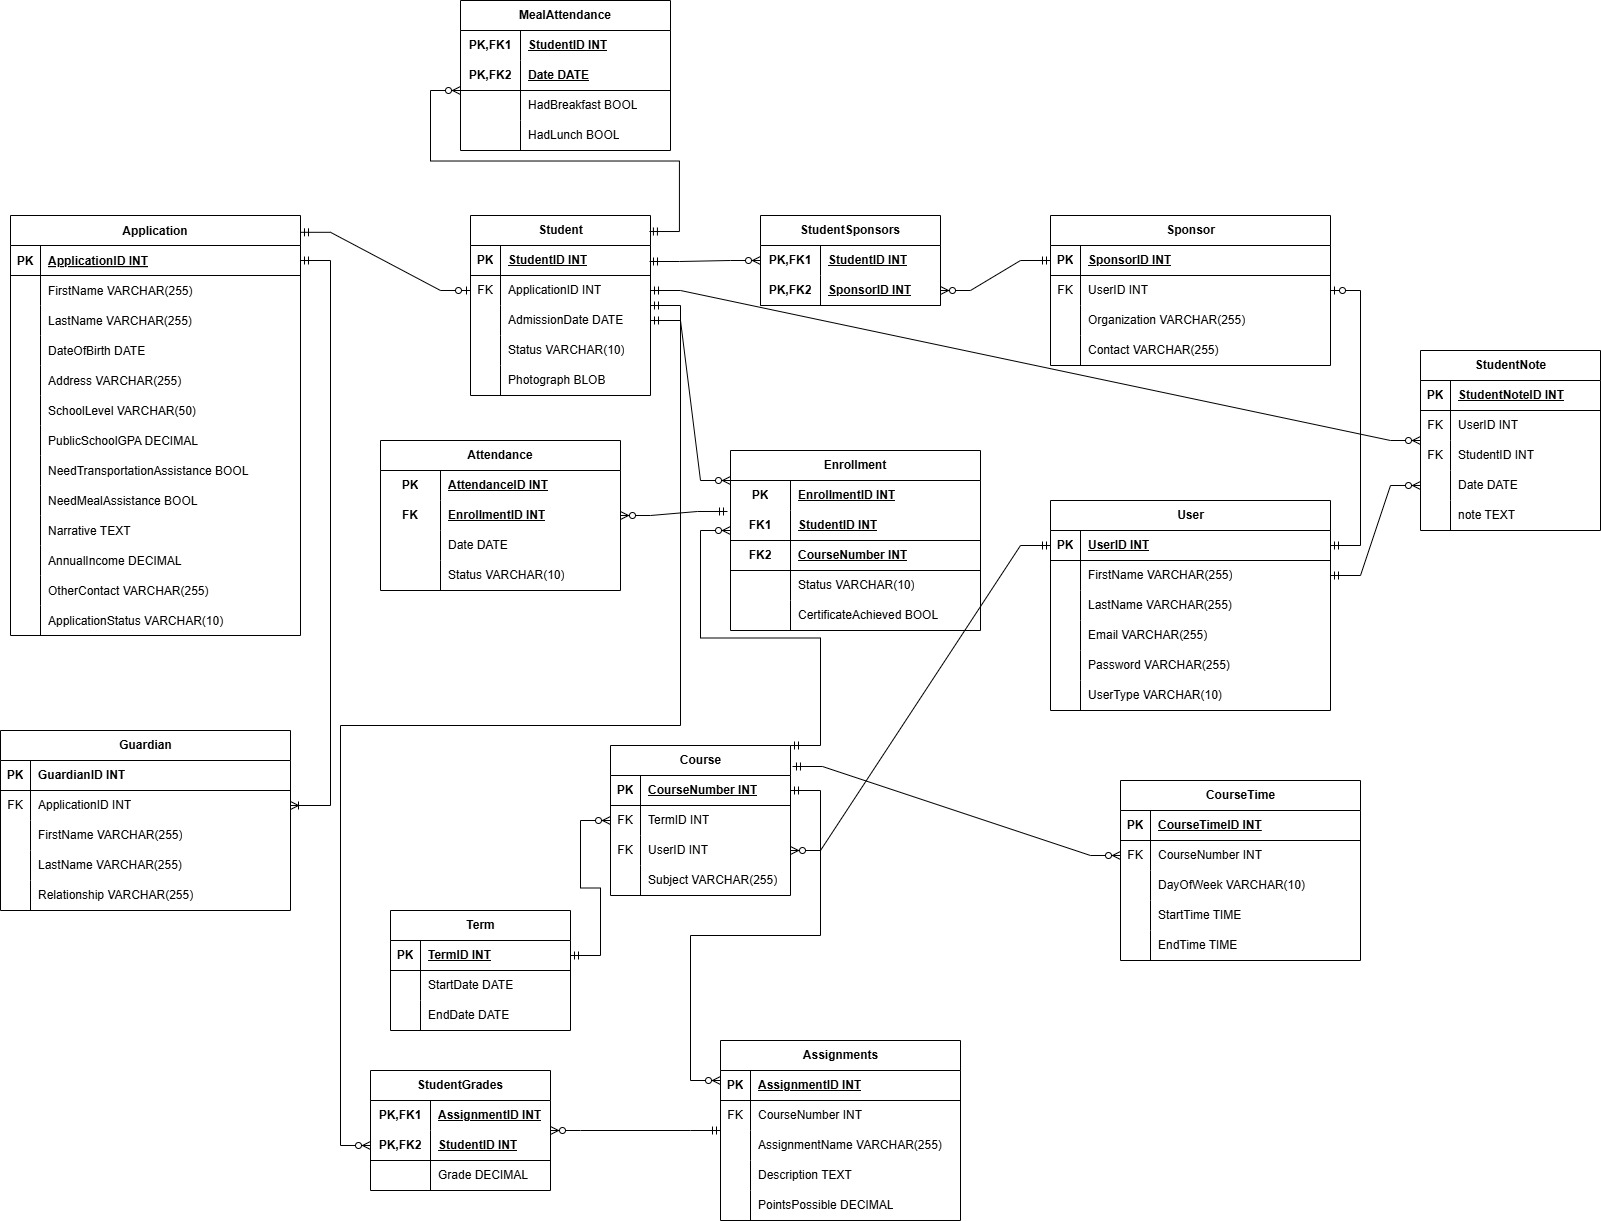
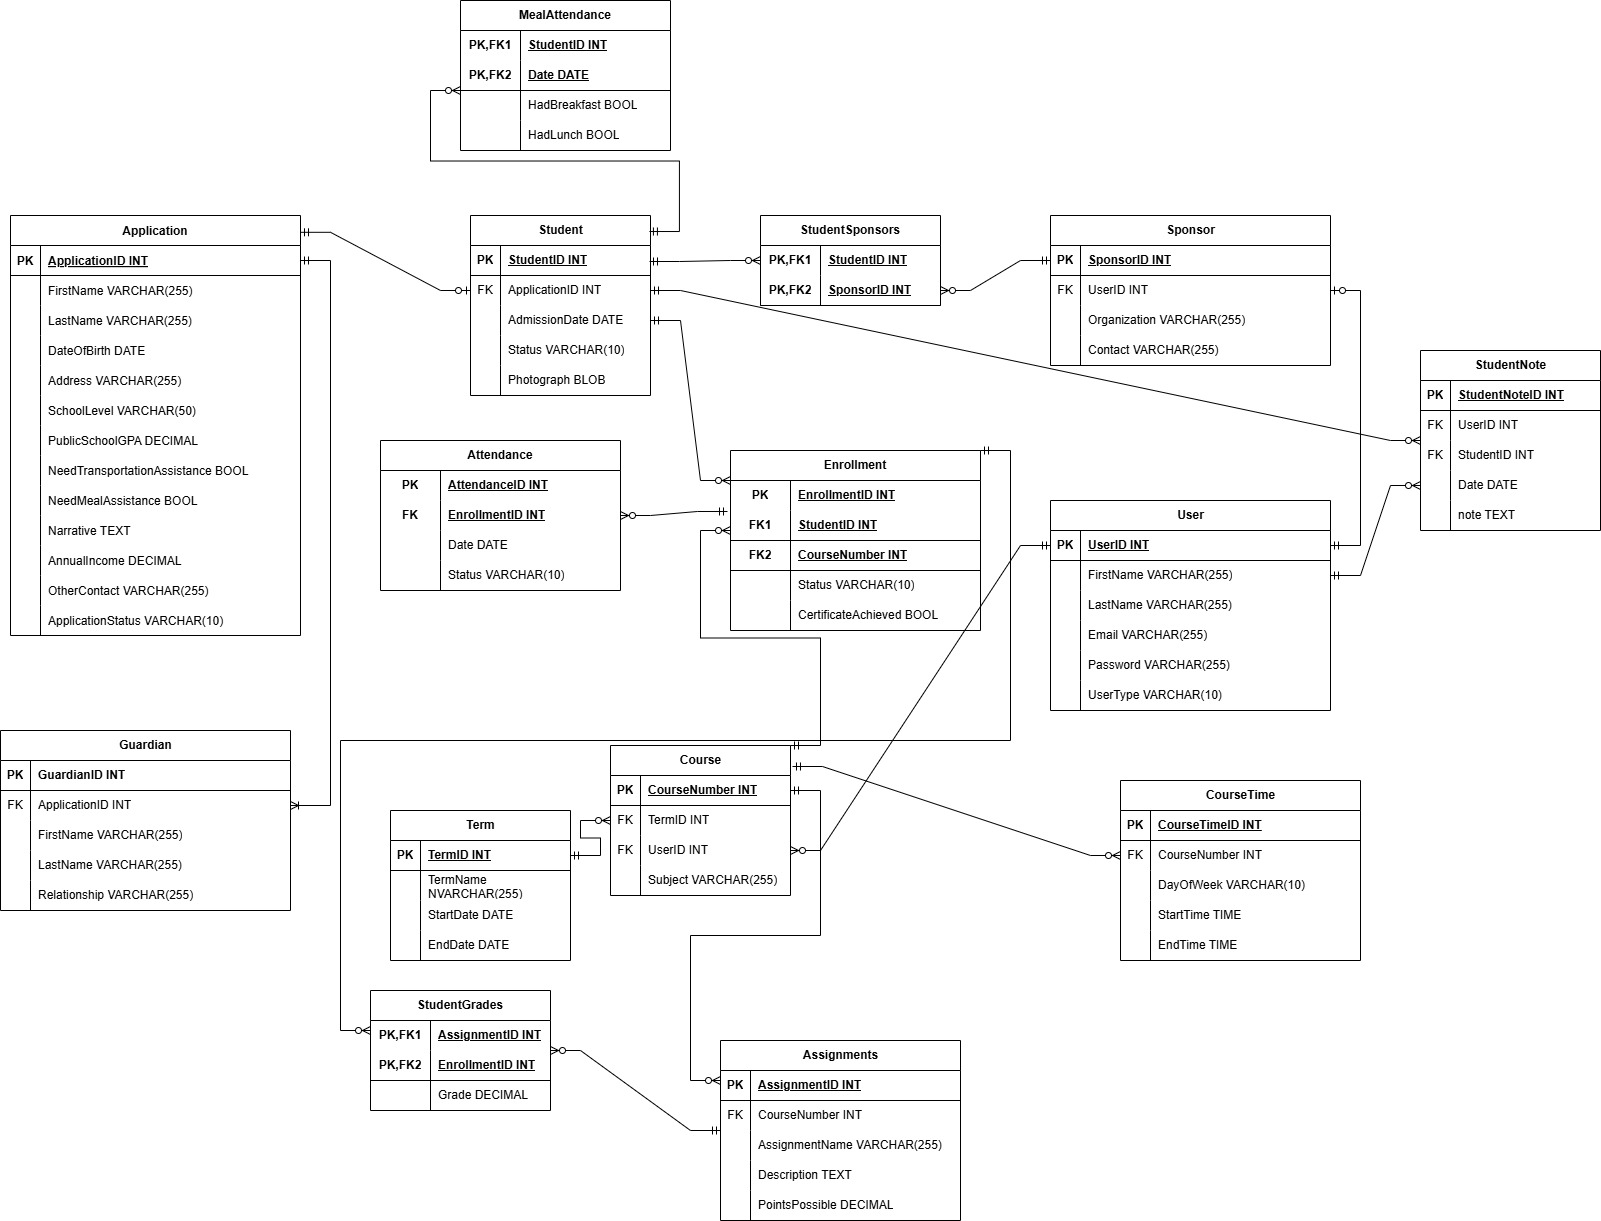
implementation of the gradebook. Some files have been affected due to creating routes and links to the gradebook.  Gradebook will display in a grid form for the instructor once they have students and assignments.  Deleting an assignment now also deletes the associated grades.

Changed region(s): [[0.2186, 0.6847, 0.3435, 0.9648], [0.3435, 0.6847, 0.3748, 0.7158]]

diff --git a/lib/database.js b/lib/database.js
@@ -214,22 +214,6 @@ function createTables(){
     }
   });
 
-  sql = "CREATE TABLE IF NOT EXISTS StudentGrades (\n"+
-  "AssignmentID INT NOT NULL,\n"+
-  "StudentID INT NOT NULL,\n"+
-  "Grade DECIMAL,\n"+
-  "PRIMARY KEY (AssignmentID, StudentID)\n"+
-  ");"
-
-  con.execute(sql, function(err, results, fields) {
-    if (err) {
-      console.log(err.message);
-      throw err;
-    } else {
-      console.log("database.js: StudentGrades table created if it didn't exist");
-    }
-  });
-
   sql = "CREATE TABLE IF NOT EXISTS CourseTIme (\n"+
   "CourseTimeID INT NOT NULL AUTO_INCREMENT,\n"+
   "CourseNumber INT NOT NULL,\n"+
@@ -266,6 +250,24 @@ function createTables(){
       throw err;
     } else {
       console.log("database.js: Enrollment table created if it didn't exist");
+    }
+  });
+
+  sql = "CREATE TABLE IF NOT EXISTS StudentGrades (\n"+
+  "AssignmentID INT NOT NULL,\n"+
+  "EnrollmentID INT NOT NULL,\n"+
+  "Grade DECIMAL,\n"+
+  "PRIMARY KEY (AssignmentID, EnrollmentID),\n"+
+  "FOREIGN KEY (EnrollmentID) REFERENCES Enrollment(EnrollmentID),\n"+
+  "FOREIGN KEY (AssignmentID) REFERENCES Assignments(AssignmentID)\n"+
+  ");"
+
+  con.execute(sql, function(err, results, fields) {
+    if (err) {
+      console.log(err.message);
+      throw err;
+    } else {
+      console.log("database.js: StudentGrades table created if it didn't exist");
     }
   });
 
@@ -524,6 +526,38 @@ function CreateStoredProcedures()
   con.query(sql, function(err, results, fields) {
     if (err) throw err;
     console.log("database.js: procedure delete_assignments created if it didn't exist");
+  });
+
+  sql = "CREATE PROCEDURE IF NOT EXISTS `delete_StudentGrades`(\n"+
+  "AssignmentID INT \n" +
+  ") \n"+
+  "BEGIN \n" +
+    "DELETE FROM StudentGrades \n"+
+    "WHERE StudentGrades.AssignmentID = AssignmentID; \n"+
+  "END;";
+
+  con.query(sql, function(err, results, fields) {
+    if (err) throw err;
+    console.log("database.js: procedure delete_StudentGrades created if it didn't exist");
+  });
+
+  sql = "CREATE PROCEDURE IF NOT EXISTS `get_course_gradebook` (\n"+
+  "CourseNumber INT\n"+
+  ") \n"+
+  "BEGIN \n"+
+    "SELECT CONCAT(app.FirstName, ' ', app.LastName) AS StudentName,  e.EnrollmentID , a.AssignmentID, a.AssignmentName, COALESCE(sg.Grade, '-') AS Grade, a.PointsPossible \n"+
+    "FROM enrollment e \n"+
+    "JOIN Student s ON e.StudentID = s.StudentID \n"+
+    "JOIN Application app ON s.ApplicationID = app.ApplicationID \n"+
+    "JOIN Assignments a ON a.CourseNumber = e.CourseNumber \n"+
+    "LEFT JOIN StudentGrades sg ON sg.EnrollmentID = e.EnrollmentID AND sg.AssignmentID = a.AssignmentID \n"+
+    "WHERE e.CourseNumber = courseNumber \n"+
+    "ORDER BY app.LastName, app.FirstName, a.AssignmentName;\n"+
+  "END;";
+
+  con.query(sql, function(err, results, fields) {
+    if (err) throw err;
+    console.log("database.js: procedure get_course_gradebook created if it didn't exist");
   });
 
 //Update get_attendance_students to also show today's attendance if it exists

diff --git a/routes/instructorgradebook.js b/routes/instructorgradebook.js
@@ -1,0 +1,97 @@
+var express = require('express');
+var router = express.Router();
+
+var dbCon = require('../lib/database');
+gradebookData = {}
+groupedData = {}
+courseAssignments = [];
+
+function getGradebookData(req,res){
+    gradebookData = {}
+    groupedData = {}
+    courseAssignments = [];
+    let sql = "CALL get_course_gradebook('" + req.session.courseNumber + "')";
+    console.log("Current Course: " + req.session.courseNumber)
+    dbCon.query(sql, function(err,result) {
+      if (err) throw err;
+      console.log("instructorgradebook.js: Gradebook Queried")
+      gradebookData = result[0];
+
+      gradebookData.forEach(row => {
+        const {StudentName, EnrollmentID, AssignmentID, AssignmentName, Grade } = row;
+
+        if (!EnrollmentID) {
+          console.error("Missing EnrollmentID for row:", row);
+          return; // Skip rows with missing EnrollmentID
+        }
+
+        if(!groupedData[EnrollmentID]){
+          groupedData[EnrollmentID] = {
+            StudentName,
+            EnrollmentID,
+            Grades: {},
+          };
+        }
+
+        groupedData[EnrollmentID].Grades[AssignmentID] = Grade;
+        if(!courseAssignments.some(assignment => assignment.AssignmentID === AssignmentID)){
+          courseAssignments.push({
+            AssignmentID,
+            AssignmentName,
+          });
+        }
+
+        Object.values(groupedData).forEach(student => {
+          courseAssignments.forEach(({ AssignmentID }) => {
+              if (!student.Grades[AssignmentID]) {
+                  student.Grades[AssignmentID] = '-';
+              }
+          });
+      });
+
+      });
+      RenderGradebook(res);
+    })
+}
+
+function RenderGradebook(res){
+    res.render('instructorgradebook', {
+      students: groupedData,
+      assignments: courseAssignments,
+    });
+}
+
+/* GET instructorgradebook */
+router.get('/', function(req, res, next) {
+  getGradebookData(req, res)
+});
+
+router.post('/', (req, res) => {
+  const grades = req.body.grades; 
+  const sql = `
+      INSERT INTO StudentGrades (EnrollmentID, AssignmentID, Grade)
+      VALUES (?, ?, ?)
+      ON DUPLICATE KEY UPDATE Grade = VALUES(Grade)
+  `;
+
+  // Process grades
+  Object.keys(grades).forEach(enrollmentID => {
+      const assignments = grades[enrollmentID];
+
+      Object.keys(assignments).forEach(assignmentID => {
+          const { EnrollmentID, AssignmentID, Grade } = assignments[assignmentID];
+
+          // Skip if grade is empty
+          if (Grade === '' || Grade === null || Grade === undefined) return;
+
+          dbCon.query(sql, [EnrollmentID, AssignmentID, Grade], (err, result) => {
+              if (err) {
+                  console.error("Error updating grade:", err);
+              }
+          });
+      });
+  });
+  res.redirect('instructorgradebook')
+});
+
+module.exports = router;

diff --git a/app.js b/app.js
@@ -21,6 +21,7 @@ var instructorAssessmentsRouter = require('./routes/instructorassessments');
 var instructorCoursesRouter = require('./routes/instructorcourses');
 var instructorAttendenceRouter = require('./routes/instructorattendence');
 var instructorCertificatesRouter = require('./routes/instructorcertificates');
+var instructorGradebookRouter = require('./routes/instructorgradebook');
 
 //Social Worker Routers
 var socialWorkerHistoryRouter = require('./routes/socialworkerhistory');
@@ -87,6 +88,7 @@ app.use('/instructorcourses', instructorCoursesRouter);
 app.use('/instructorassessments', instructorAssessmentsRouter);
 app.use('/instructorattendence', instructorAttendenceRouter);
 app.use('/instructorcertificates', instructorCertificatesRouter);
+app.use('/instructorgradebook', instructorGradebookRouter);
 
 //Use Social Worker Pages
 app.use('/socialworkerhistory', socialWorkerHistoryRouter);

diff --git a/routes/instructorassessments.js b/routes/instructorassessments.js
@@ -49,11 +49,16 @@ router.post('/', function(req, res, next) {
   }
   else if(req.body.action == 'delete_assignment'){
     let AssignmentID = req.body.AssignmentID
-    let sql = "CALL delete_assignments(?)"
+    let sql = "CALL delete_StudentGrades(?)"
     dbCon.query(sql, [AssignmentID] , function(err, result){
       if(err) throw err;
-      res.redirect('instructorassessments')
+      sql = "CALL delete_assignments(?)"
+      dbCon.query(sql, [AssignmentID] , function(err, result){
+        if(err) throw err;
+        res.redirect('instructorassessments')
+      })
     })
+    
   }
   else if(req.body.action == 'create_assignment'){
     let Description = req.body.Description
